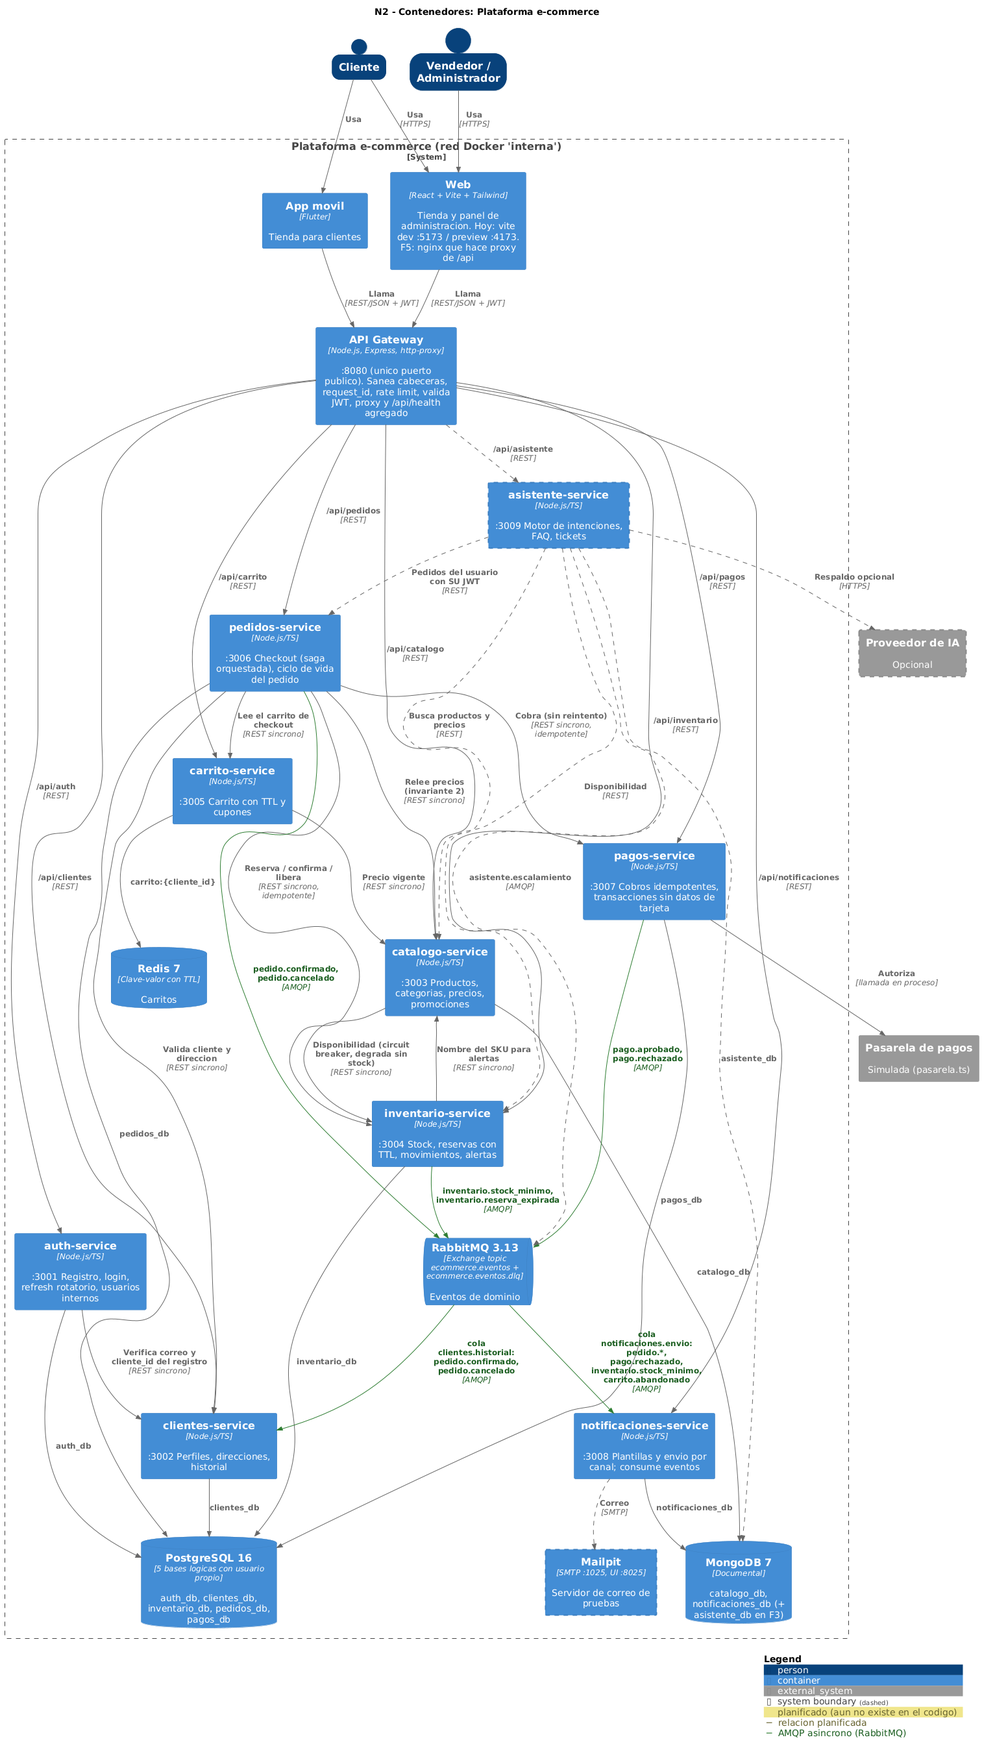
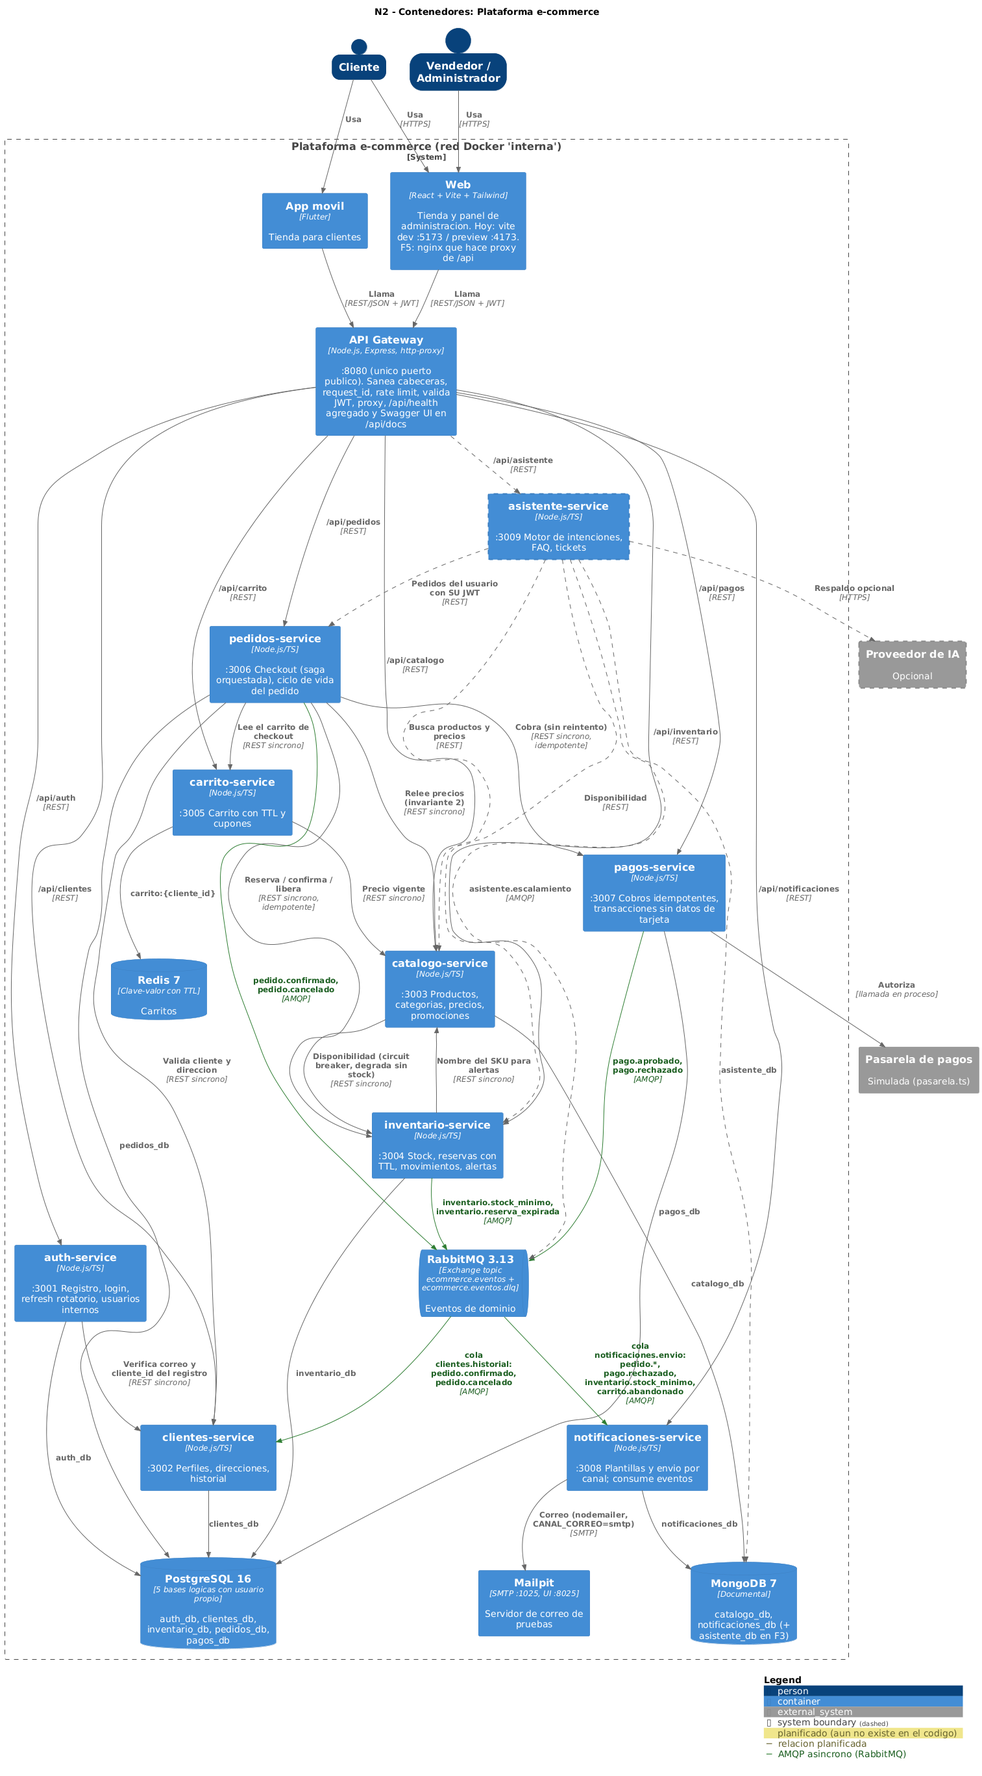
docs(f2): scripts de BD, pruebas, C4 y ADR al dia con la Fase 2
- infra/README.md: orden de los scripts, usuarios por servicio, reinicio.
- PRUEBAS.md: niveles unitario y de documentacion, defectos 4.26 y 4.27,
  evidencia regenerada (157 de integracion + 94 unitarias).
- C4: Mailpit y Swagger UI dejan de ser planificados; ADR 0006 y 0008
  implementados; CLAUDE.md con comandos, convenciones del ORM y la API.

diff --git a/docs/PRUEBAS.md b/docs/PRUEBAS.md
@@ -7,9 +7,9 @@ electrónico.
 | | |
 |---|---|
 | **Última ejecución** | 15 de noviembre de 2026 (servicios en contenedores, base poblada con `npm run sembrar:carga` y secretos propios en `.env`) |
-| **Casos ejecutados** | 155 (33 de concurrencia + 73 por HTTP + 49 extremo a extremo) |
-| **Resultado** | 155 pasan, 0 fallan |
-| **Entorno** | Windows 11, Node 25, Docker: PostgreSQL 16 (puerto 5434 del host), MongoDB 7, Redis 7, RabbitMQ 3. Infraestructura completa |
+| **Casos ejecutados** | 251: 157 de integración (33 de concurrencia + 73 por HTTP + 51 extremo a extremo) y 94 unitarias. Además, 313 comprobaciones de cobertura de la especificación OpenAPI |
+| **Resultado** | 251 pasan, 0 fallan; las 313 comprobaciones de OpenAPI pasan. Cobertura unitaria: 71,2 % de las líneas |
+| **Entorno** | Windows 11, Node 25, Docker: PostgreSQL 16 (puerto 5434 del host), MongoDB 7, Redis 7, RabbitMQ 3 y Mailpit 1.27. Infraestructura completa |
 | **Evidencia** | [`evidencia/`](evidencia/) — salida literal de cada suite |
 
 ---
@@ -25,7 +25,9 @@ los siguientes no aportan información útil.
 | 2. Salud | Que los nueve servicios respondan | `npm run test:salud` | infraestructura + servicios |
 | 3. Concurrencia | Que no haya sobreventa | `npm run test:concurrencia` | PostgreSQL |
 | 4. Contrato HTTP | Códigos de estado, RBAC, idempotencia, aislamiento | `npm run test:http` | infraestructura + servicios |
-| 5. Integración E2E | El flujo de compra completo de 15 pasos | `npm run test:e2e` | **infraestructura completa** |
+| 5. Integración E2E | El flujo de compra completo de 15 pasos, incluido el correo real en Mailpit | `npm run test:e2e` | **infraestructura completa** |
+| 0. Unitarias | Lógica aislada: circuit breaker, reintentos, JWT y RBAC, bus de eventos, totales del carrito, plantillas, esquema del ORM | `npm run test:unit` | nada |
+| 0. Documentación | La especificación OpenAPI cubre exactamente las rutas y los roles del código | `npm run test:openapi` | nada |
 
 El nivel 3 es el central del laboratorio: verifica la pregunta 5 del análisis
 atacando directamente la función `reservar_stock` de PostgreSQL, sin pasar por la
@@ -134,17 +136,38 @@ Escenario 2: veinte compradores, cinco unidades
 
 ### Nivel 5 — Integración extremo a extremo
 
-`npm run test:e2e` → **49 comprobaciones, 49 pasan**
+`npm run test:e2e` → **51 comprobaciones, 51 pasan**
 ([`evidencia/04-e2e-compra.txt`](evidencia/04-e2e-compra.txt)).
 
 | Escenario | Qué recorre |
 |---|---|
-| A | Compra exitosa: los 15 pasos del flujo, bitácora de la saga y notificación asíncrona por RabbitMQ |
+| A | Compra exitosa: los 15 pasos del flujo, bitácora de la saga, notificación asíncrona por RabbitMQ y correo de confirmación recibido en Mailpit |
 | B | Pago rechazado: la saga compensa y el stock se libera |
 | C | Dos clientes disputan la última unidad: un solo ganador |
 | D | Doble clic en «Pagar»: un solo pedido (idempotencia del checkout) |
 | E | Cancelación de un pedido pagado: reembolso y devolución de stock |
 | F | Controles de seguridad |
+
+### Pruebas unitarias y de documentación (Trabajo Final, Fase 2)
+
+`npm run test:unit` → **94 pruebas en 10 archivos, 94 pasan**
+([`evidencia/05-pruebas-unitarias.txt`](evidencia/05-pruebas-unitarias.txt); cobertura en [`evidencia/05-cobertura-unitarias.txt`](evidencia/05-cobertura-unitarias.txt)).
+No necesitan Docker.
+
+| Archivo | Qué fija |
+|---|---|
+| `circuit-breaker.test.ts` | Transiciones cerrado → abierto → semiabierto → cerrado; los 4xx no cuentan (invariante 14) |
+| `cliente-servicio.test.ts` | Reintentos solo ante red y 5xx, nunca 409 (invariante 7); el cobro sin reintentos; timeout → 504; cabeceras de la llamada interna |
+| `autenticacion.test.ts` | Token manipulado, forjado o expirado; secretos (invariante 13); RBAC; llamada interna con dos condiciones (invariante 11) |
+| `bus-eventos.test.ts` | Publicar nunca lanza (invariante 12); reintento en la propia cola; DLQ al agotar los intentos |
+| `errores.test.ts`, `utilidades.test.ts` | Traducción de errores de PostgreSQL (también envueltos por Drizzle), inyección NoSQL |
+| `totales.test.ts` | IVA tras el descuento, envío gratis, cupones y cuadre del total |
+| `plantillas.test.ts` | Escape de HTML en el correo (S-11) y canales de envío |
+| `esquema.test.ts` (auth y clientes) | El esquema de Drizzle refleja columna por columna el SQL de `infra/postgres` |
+
+La cobertura es del 71,2 % de las líneas. Lo que queda fuera es el arranque de los servicios y la conexión a los motores (`servicio.ts`, `postgres.ts`), que ejercitan las suites de integración.
+
+`npm run test:openapi` → **313 comprobaciones, 313 pasan** ([`evidencia/06-openapi-cobertura.txt`](evidencia/06-openapi-cobertura.txt)). Cada una de las 52 rutas del código está documentada una sola vez, con los mismos roles y el mismo carácter público, y el empaquetado que sirve el gateway corresponde a las fuentes.
 
 ---
 
@@ -711,6 +734,29 @@ Encontrado con la evaluación heurística (U-01 de [`calidad/USABILIDAD.md`](cal
 **Corrección.** Confirmación en dos pasos, aviso de éxito y error dentro del diálogo, con foco y desplazamiento (U-03 y U-04).
 
 **Verificación.** T6 y E8: el error queda visible y completo, y el detalle muestra el estado real.
+
+### 4.26 Un correo que fallaba se perdía en el reintento — **grave**
+
+Lo encontró el diseño del envío real por SMTP (Trabajo Final, Fase 2).
+
+**Síntoma.** Si el envío fallaba, el bus reintentaba el evento. Pero el segundo intento chocaba con el índice único de `clave_dedupe` y `procesarEvento` lo trataba como un duplicado del broker. El mensaje quedaba `pendiente` para siempre, sin correo y sin llegar a la DLQ.
+
+Con el envío simulado no se veía, porque nunca fallaba.
+
+**Corrección.** Ante el duplicado se consulta el estado: solo se ignora si ya está `enviado`. Un fallo de envío se registra (`fallido`, `intentos`, `ultimo_error`) y se relanza para que el bus reintente.
+
+**Verificación.**
+- Con Mailpit detenido, una compra se confirma igual.
+- El aviso queda `fallido` tras 3 intentos y llega a `notificaciones.envio.fallidos`.
+- Notificaciones sigue sano, con la dependencia `correo` caída marcada como no crítica.
+
+### 4.27 El reintento de un evento llegaba también a otros consumidores
+
+**Síntoma.** El bus reencolaba un evento fallido publicándolo **otra vez en el exchange**. El reintento de notificaciones le llegaba también a `clientes.historial`, que lo procesaba de nuevo. Era inocuo solo porque esa proyección es idempotente.
+
+**Corrección.** El reintento va directo a la cola del consumidor que falló (`sendToQueue`).
+
+**Verificación.** Prueba unitaria `bus-eventos.test.ts`: el reintento usa `sendToQueue` hacia su propia cola y nunca `publish`.
 
 ---
 

diff --git a/CLAUDE.md b/CLAUDE.md
@@ -34,6 +34,7 @@ docs/                   Arquitectura, flujo, comunicación, análisis, api.http
 | pagos-service | 3007 | PostgreSQL `pagos_db` |
 | notificaciones-service | 3008 | MongoDB `notificaciones_db` |
 | web | 5173 | — |
+| Mailpit (correo de pruebas) | 8025 (web y API), 1025 (SMTP) | — |
 
 Infraestructura: PostgreSQL 5432 (o `POSTGRES_PUERTO_HOST`), MongoDB 27017, Redis 6379,
 RabbitMQ 5672 (consola 15672).
@@ -51,7 +52,10 @@ npm run dev:web             # cliente web
 npm run typecheck           # tipos de todos los paquetes
 npm run test:salud          # los nueve servicios responden
 npm run test:concurrencia   # no hay sobreventa
-npm run test:e2e            # flujo de compra completo
+npm run test:e2e            # flujo de compra completo (incluye el correo en Mailpit)
+npm run test:unit           # pruebas unitarias con Vitest (sin Docker); :cobertura para el reporte
+npm run test:openapi        # la especificacion OpenAPI cubre exactamente las rutas del codigo
+npm run docs:openapi        # valida (Redocly) y empaqueta docs/openapi para el gateway
 npm run infra:reset         # borra volúmenes y recrea desde cero
 npm run test:seguridad      # 16 verificaciones de seguridad (ver docs/calidad/SEGURIDAD.md)
 npm run usabilidad:recorrido # 8 tareas en Chromium: KLM, capturas y axe (requiere vite preview en 4173)
@@ -79,6 +83,20 @@ servicios.
 extiende `tsconfig.base.json`, y `src/index.ts` que llama a `crearServicio()`.
 Hay que registrarlo además en la tabla `DESTINOS` del gateway, en
 `docker-compose.yml` y en los scripts `dev:*` de la raíz.
+
+**Acceso a datos.** auth y clientes usan Drizzle ORM a traves de
+`src/repositorio.ts`; inventario, pedidos y pagos usan SQL nativo parametrizado
+(ADR-0006). El esquema lo definen SOLO los scripts de `infra/postgres`:
+`esquema.ts` los refleja y no se usa `drizzle-kit push`. Si cambias un
+`CREATE TABLE`, cambia tambien `esquema.ts` (`test:unit` detecta la diferencia).
+Para leer el codigo de PostgreSQL de un error usa `errorDePostgres()`: Drizzle
+envuelve el error del driver.
+
+**Documentacion de la API.** Se escribe en `docs/openapi/` (dividida por
+servicio; las rutas de la saga en `openapi-interna.yaml`) y `npm run
+docs:openapi` la empaqueta en `services/api-gateway/especificacion/openapi.json`,
+que el gateway sirve en `/api/docs`. Una ruta nueva sin documentar, o con
+`x-roles` distinto de su `requiereRol()`, hace fallar `test:openapi`.
 
 **Controladores.** Se envuelven siempre en `asincrono()` al montarlos en el
 router; sin eso, una promesa rechazada no llega al middleware de errores y la
@@ -136,7 +154,9 @@ petición queda colgada. Para los errores se usan los constructores de
     control de rol.
 
 12. **Publicar un evento nunca debe tumbar la operación principal.**
-    `bus.publicar()` registra el fallo y devuelve `false`.
+    `bus.publicar()` registra el fallo y devuelve `false`. Del lado del
+    consumidor, un fallo de envío (SMTP caído) se relanza: el bus lo reintenta
+    en la propia cola y, al tercer intento, lo deja en la DLQ. Nunca se pierde.
 
 13. **Los secretos no tienen valor por defecto.** `JWT_SECRET`,
     `JWT_REFRESH_SECRET` e `INTERNAL_TOKEN` se definen en `.env` (generados con
@@ -165,6 +185,11 @@ petición queda colgada. Para los errores se usan los constructores de
 | Enrutamiento, rate limiting y saneamiento | `services/api-gateway/src/index.ts` |
 | Pasarela de pagos simulada | `services/pagos-service/src/pasarela.ts` |
 | Timeouts por dependencia | `services/pedidos-service/src/dependencias.ts` |
+| Repositorios con Drizzle | `services/{auth,clientes}-service/src/repositorio.ts` y `esquema.ts` |
+| Canales de envío (SMTP / registro) | `services/notificaciones-service/src/canales.ts` |
+| Swagger UI | `services/api-gateway/src/documentacion.ts` → `/api/docs` |
+| Totales del carrito (IVA, envío, cupón) | `services/carrito-service/src/totales.ts` |
+| Scripts de base de datos | `infra/README.md` |
 | Especificación, C4 y ADR del Trabajo Final | `docs/especificacion/`, `docs/c4/`, `docs/adr/` |
 
 ---
@@ -194,14 +219,16 @@ Tokens de la pasarela simulada (resultado determinista):
 
 **Verificado y funcionando** (ver `docs/PRUEBAS.md` para el detalle y la
 evidencia; última ejecución el 2026-11-15 con los servicios en contenedores y la
-base poblada con `npm run sembrar:carga`): 155 casos ejecutados, 155 pasan. Los nueve servicios compilan y arrancan sanos; la prueba
+base poblada con `npm run sembrar:carga`): 157 casos de integración y 94
+unitarios, todos pasan; `test:openapi` pasa sus 313 comprobaciones. Los nueve servicios compilan y arrancan sanos; la prueba
 de concurrencia pasa sus 33 comprobaciones (20 compradores simultáneos por 5
 unidades → exactamente 5 ganan); `test:http` pasa sus 73 casos sobre
 autenticación, RBAC, aislamiento entre clientes, idempotencia, los cuatro
 desenlaces de la pasarela, el ciclo de vida de los pedidos, rate limiting,
-PCI-DSS y aislamiento de las bases; `test:e2e` pasa sus 49 comprobaciones
+PCI-DSS y aislamiento de las bases; `test:e2e` pasa sus 51 comprobaciones
 (compra, pago rechazado con compensación, última unidad, doble clic, cancelación
-y seguridad), incluido el consumo de eventos por notificaciones. El cliente web
+y seguridad), incluido el consumo de eventos por notificaciones y el correo real
+en Mailpit. El cliente web
 compila y `flutter analyze` no reporta problemas.
 
 **Puerto de PostgreSQL en el host:** `POSTGRES_PUERTO_HOST` en `.env` (5432 por
@@ -242,7 +269,6 @@ cola se vacíe antes de cada corrida.
   en cookie `HttpOnly` para la web, almacenamiento seguro en la app móvil y
   protección CSRF. Hoy el token vive en `localStorage`, mitigado por la CSP.
 
-- Pruebas unitarias con Jest o Vitest. Solo hay pruebas de integración.
 - Caché del catálogo en Redis (el motor ya está desplegado para el carrito).
 - Métricas para Prometheus y trazas distribuidas. Hoy hay `request_id` propagado
   y `/health` agregado, que es el mínimo.

diff --git a/infra/README.md b/infra/README.md
@@ -1,0 +1,85 @@
+# Scripts de base de datos e infraestructura
+
+Esquemas, usuarios y datos iniciales de los motores de datos. Son el entregable de "scripts de BD" del Trabajo Final y **la única fuente del esquema**: el ORM de auth y clientes solo los refleja ([ADR-0006](../docs/adr/0006-estrategia-orm.md)).
+
+## Cuándo se ejecutan
+
+Los contenedores oficiales de PostgreSQL y MongoDB ejecutan los scripts de `/docker-entrypoint-initdb.d` **una sola vez, al crear el volumen vacío**.
+
+| Motor | Montaje (`docker-compose.yml`) | Orden |
+|---|---|---|
+| PostgreSQL 16 | `./infra/postgres` → `/docker-entrypoint-initdb.d` | Alfabético: `00` → `06` |
+| MongoDB 7 | `./infra/mongo/init-mongo.js` → `/docker-entrypoint-initdb.d/` | Un solo script |
+
+Un cambio en un script **no se aplica** a un volumen que ya existe. Para recrear todo desde cero:
+
+```bash
+npm run infra:reset   # docker compose down -v + motores de datos y Mailpit
+```
+
+Esto borra **todos** los datos, incluidos los pedidos y el sembrado de carga. Después:
+- vuelve a levantar los servicios con `npm run infra:normal` o `npm run dev`;
+- vuelve a sembrar los datos de carga con `CLIENTES_CARGA=300 npm run sembrar:carga`, si se van a correr pruebas de rendimiento.
+
+Las migraciones versionadas son un pendiente conocido: hoy no hay forma de aplicar un cambio de esquema sin recrear el volumen.
+
+## PostgreSQL: una base y un usuario por servicio
+
+| Script | Base | Contenido |
+|---|---|---|
+| `00-bases.sql` | — | Crea los 5 usuarios y las 5 bases, cada base **propiedad de su usuario**, y revoca el acceso de `PUBLIC` |
+| `01-auth.sql` | `auth_db` | `usuarios` (con el índice único parcial `uq_usuarios_cliente`, hallazgo S-01), `tokens_renovacion` (se guarda el hash, no el token) y `auditoria_accesos` |
+| `02-clientes.sql` | `clientes_db` | `clientes`, `direcciones` (una sola predeterminada por tipo) e `historial_compras`, la proyección que alimentan los eventos |
+| `03-inventario.sql` | `inventario_db` | `bodegas`, `stock` (con `version` y `CHECK` de no negativos), `reservas`, `movimientos` y las funciones `reservar_stock`, `confirmar_reserva`, `liberar_reserva` y `expirar_reservas` |
+| `04-pedidos.sql` | `pedidos_db` | `pedidos`, `pedido_items`, `historial_estados` (con disparador), `saga_pasos` y `generar_numero_pedido` |
+| `05-pagos.sql` | `pagos_db` | `transacciones` (sin número, CVV ni vencimiento: invariante 9), `reembolsos` y `auditoria_pasarela` |
+| `06-datos-prueba.sql` | todas | Cuentas de prueba (contraseña `Password123`), clientes, direcciones, bodegas y stock |
+
+| Usuario | Contraseña (laboratorio) | Solo puede abrir |
+|---|---|---|
+| `auth_user` | `auth_pass` | `auth_db` |
+| `clientes_user` | `clientes_pass` | `clientes_db` |
+| `inventario_user` | `inventario_pass` | `inventario_db` |
+| `pedidos_user` | `pedidos_pass` | `pedidos_db` |
+| `pagos_user` | `pagos_pass` | `pagos_db` |
+
+El aislamiento lo impone el motor: `auth_user` recibe *permission denied* si intenta conectarse a `pedidos_db` (`test:http` lo verifica). Las contraseñas son de laboratorio y solo se alcanzan desde `127.0.0.1`. En producción se reemplazan y no se publica el puerto ([ADR-0009](../docs/adr/0009-entorno-de-despliegue.md)).
+
+### La lógica que no está en los servicios
+
+La protección contra la sobreventa vive en `reservar_stock` (`03-inventario.sql`) y combina cuatro mecanismos:
+- el descuento condicional (`WHERE cantidad_disponible >= $n`);
+- la columna `version`;
+- `pg_advisory_xact_lock` por SKU;
+- la idempotencia por clave.
+
+Por eso inventario no usa ORM ([ADR-0006](../docs/adr/0006-estrategia-orm.md)), y `test:concurrencia` lo verifica.
+
+## MongoDB
+
+`init-mongo.js` crea dos bases, cada una con su usuario.
+
+| Base | Usuario | Colecciones | Índices relevantes |
+|---|---|---|---|
+| `catalogo_db` | `catalogo_user` | `productos`, `categorias`, `promociones` | `sku` único; índice de texto con pesos (nombre > marca > descripción) |
+| `notificaciones_db` | `notificaciones_user` | `mensajes`, `plantillas` | `clave_dedupe` único (entrega "al menos una vez" sin correos duplicados) |
+
+`asistente_db` se agregará en la Fase 3, con sus colecciones de intenciones y preguntas frecuentes iniciales.
+
+## Redis y RabbitMQ
+
+No tienen scripts:
+- **Redis** guarda los carritos con un TTL de 7 días que se renueva en cada escritura.
+- **RabbitMQ:** cada servicio declara al arrancar su exchange, sus colas y su DLQ (`packages/shared/src/bus-eventos.ts`). Ver la topología en [`docs/especificacion/02-especificacion-arquitectura.md`](../docs/especificacion/02-especificacion-arquitectura.md#23-comunicación).
+
+## Mailpit
+
+Servidor SMTP de pruebas (`axllent/mailpit:v1.27`). No guarda nada entre reinicios y no entrega fuera del equipo.
+- **Recibe por SMTP** en el puerto 1025 todo lo que envía `notificaciones-service`.
+- **Lo muestra** en http://localhost:8025, con una API en `/api/v1/`, que usa `test:e2e`.
+
+## `Dockerfile.servicio`
+
+Es la imagen común de los nueve servicios: el argumento `SERVICIO` decide cuál se ejecuta.
+
+Copia explícitamente el `package.json` de cada servicio antes del `npm install`. **Un servicio nuevo debe agregarse aquí**, además de en `DESTINOS` del gateway, en `docker-compose.yml` y en los scripts `dev:*` (ver `CLAUDE.md`).

diff --git a/docs/especificacion/02-especificacion-arquitectura.md b/docs/especificacion/02-especificacion-arquitectura.md
@@ -11,7 +11,7 @@ Documento de especificación de la arquitectura del Trabajo Final. Integra, sin 
 | Decisiones registradas | [`docs/adr/`](../adr/) |
 | Requisitos y escenarios de calidad | [`01-escenario-requisitos.md`](01-escenario-requisitos.md) |
 
-Los diagramas están en [`docs/c4/`](../c4/). Las fuentes son C4-PlantUML con las librerías v2.10.0 copiadas en `docs/c4/lib/`, y los PNG se regeneran con `npm run docs:c4` (imagen Docker `plantuml/plantuml:1.2024.7`). En los diagramas, **el borde discontinuo marca lo planificado**: elementos de las Fases 2, 3 y 5 que todavía no existen en el código.
+Los diagramas están en [`docs/c4/`](../c4/). Las fuentes son C4-PlantUML con las librerías v2.10.0 copiadas en `docs/c4/lib/`, y los PNG se regeneran con `npm run docs:c4` (imagen Docker `plantuml/plantuml:1.2024.7`). En los diagramas, **el borde discontinuo marca lo planificado**: elementos de las Fases 3 y 5 que todavía no existen en el código.
 
 ---
 
@@ -156,6 +156,8 @@ Verificado el 2026-11-15 contra `docker-compose.yml`, `DESTINOS` y `RUTAS_PUBLIC
 | Orden de los middlewares del gateway | ✅ | helmet/CORS → saneamiento → `request_id` → limitadores → JWT → proxy |
 | `carrito.abandonado` | ⚠ **Declarado y consumido, pero nadie lo publica.** `COMUNICACION.md` atribuye la publicación a carrito; el código no la tiene. Queda como punto de extensión (detección de carritos inactivos) y se corrige la tabla de `COMUNICACION.md` | `tipos.ts`, `notificaciones/controlador.ts` |
 | Pasarela de pagos como sistema externo | ⚠ Simulada **en proceso** dentro de pagos-service, no como sistema separado. Se dibuja externa porque así es en producción (adaptador) | `pagos-service/src/pasarela.ts` |
-| asistente-service, Mailpit, web en nginx, Swagger UI, túnel, proveedor de IA | 🔜 Planificados (borde discontinuo): Fases 2, 3 y 5 | — |
+| Mailpit (SMTP :1025, UI :8025) y notificaciones → Mailpit | ✅ (Fase 2) | `docker-compose.yml` (`mailpit`), `notificaciones-service/src/canales.ts` |
+| Swagger UI en `/api/docs` | ✅ (Fase 2) | `api-gateway/src/documentacion.ts`; `test:openapi` |
+| asistente-service, web en nginx, túnel, proveedor de IA | 🔜 Planificados (borde discontinuo): Fases 3 y 5 | — |
 
 En sentido inverso, todo contenedor, puerto, cola y exchange del código aparece en el diagrama de contenedores o en el de despliegue.

diff --git a/docs/adr/README.md b/docs/adr/README.md
@@ -9,7 +9,7 @@ Formato de Michael Nygard: **estado, contexto, decisión, consecuencias y altern
 | [0003](0003-saga-orquestada.md) | Saga orquestada (no coreografiada) para el checkout | Aceptada |
 | [0004](0004-rabbitmq-eventos-rest-consultas.md) | RabbitMQ para eventos; REST para consultas que exigen consistencia | Aceptada |
 | [0005](0005-jwt-corto-refresh-rotatorio.md) | JWT de vida corta + refresh rotatorio | Aceptada |
-| [0006](0006-estrategia-orm.md) | ORM parcial con Drizzle; SQL nativo donde hay concurrencia | Aceptada; se implementa en la Fase 2 |
+| [0006](0006-estrategia-orm.md) | ORM parcial con Drizzle; SQL nativo donde hay concurrencia | Implementada (Fase 2) |
 | [0007](0007-asistente-reglas-ia-opcional.md) | Asistente: microservicio con motor de reglas e IA opcional | Aceptada; se implementa en la Fase 3 |
-| [0008](0008-openapi-centralizada-gateway.md) | Documentación OpenAPI centralizada en el gateway | Aceptada; se implementa en la Fase 2 |
+| [0008](0008-openapi-centralizada-gateway.md) | Documentación OpenAPI centralizada en el gateway | Implementada (Fase 2) |
 | [0009](0009-entorno-de-despliegue.md) | Compose con perfil prod, CI en GitHub Actions y túnel para la defensa | Aceptada; se implementa en la Fase 5 |

diff --git a/docs/adr/0006-estrategia-orm.md b/docs/adr/0006-estrategia-orm.md
@@ -1,6 +1,6 @@
 # ADR-0006: ORM parcial con Drizzle; SQL nativo donde hay concurrencia
 
-**Estado:** Aceptada por el equipo el 2026-11-15, opción (a) del plan. Se implementa en la Fase 2.
+**Estado:** Aceptada por el equipo el 2026-11-15, opción (a) del plan. Implementada en la Fase 2: `esquema.ts` y `repositorio.ts` en auth y clientes, y `errorDePostgres()` en shared, porque Drizzle envuelve los errores del driver.
 
 ## Contexto
 

diff --git a/docs/adr/0008-openapi-centralizada-gateway.md b/docs/adr/0008-openapi-centralizada-gateway.md
@@ -1,6 +1,6 @@
 # ADR-0008: Documentación OpenAPI centralizada en el gateway
 
-**Estado:** Aceptada. Se implementa en la Fase 2.
+**Estado:** Aceptada. Implementada en la Fase 2: 36 rutas publicas (43 operaciones) y 9 internas; `test:openapi` hace 313 comprobaciones.
 
 ## Contexto
 
